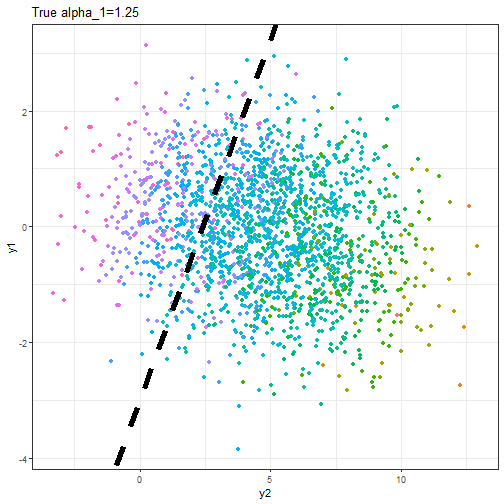
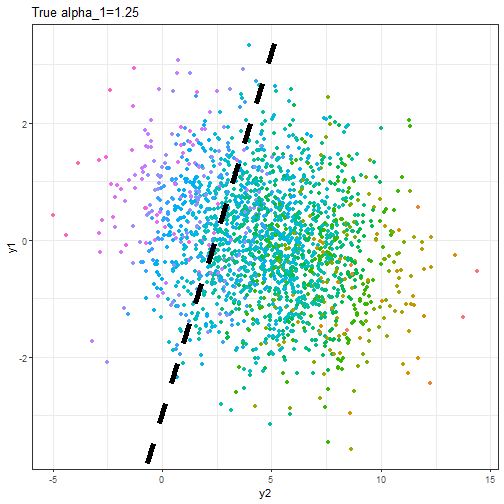
Post

diff --git a/lec/04-Instrumental-Variables/04-Instrumental-Variables.html b/lec/04-Instrumental-Variables/04-Instrumental-Variables.html
@@ -1540,7 +1540,7 @@ class: MSU
 # Simultaneity
 
 ### First stage
-`$$y_2 = \pi_{21} z_1 + \pi_{22} + v_2$$`
+`$$y_2 = \pi_{21} z_1 + \pi_{22}z_2+ v_2$$`
 
 ```
 ## 
@@ -1548,20 +1548,20 @@ class: MSU
 ## lm(formula = y2 ~ z1 + z2, data = df1)
 ## 
 ## Residuals:
-##    Min     1Q Median     3Q    Max 
-## -6.327 -1.461  0.036  1.411  7.688 
+##     Min      1Q  Median      3Q     Max 
+## -7.6716 -1.4648 -0.0406  1.4813  7.6990 
 ## 
 ## Coefficients:
 ##             Estimate Std. Error t value Pr(&gt;|t|)    
-## (Intercept) -0.12926    0.20305  -0.637 0.524456    
-## z1           2.13284    0.05970  35.724  &lt; 2e-16 ***
-## z2           0.15607    0.04342   3.595 0.000333 ***
+## (Intercept)  0.15937    0.20339   0.784   0.4334    
+## z1           2.10246    0.06017  34.941   &lt;2e-16 ***
+## z2           0.10592    0.04483   2.363   0.0182 *  
 ## ---
 ## Signif. codes:  0 '***' 0.001 '**' 0.01 '*' 0.05 '.' 0.1 ' ' 1
 ## 
-## Residual standard error: 2.164 on 1997 degrees of freedom
-## Multiple R-squared:  0.3912,	Adjusted R-squared:  0.3905 
-## F-statistic: 641.5 on 2 and 1997 DF,  p-value: &lt; 2.2e-16
+## Residual standard error: 2.201 on 1997 degrees of freedom
+## Multiple R-squared:  0.381,	Adjusted R-squared:  0.3803 
+## F-statistic: 614.5 on 2 and 1997 DF,  p-value: &lt; 2.2e-16
 ```
 ---
 class: MSU 
@@ -1576,20 +1576,20 @@ class: MSU
 ## lm(formula = y1 ~ y2hat + z1, data = df1)
 ## 
 ## Residuals:
-##      Min       1Q   Median       3Q      Max 
-## -3.13942 -0.67324  0.00917  0.68954  2.97891 
+##     Min      1Q  Median      3Q     Max 
+## -3.2826 -0.6026 -0.0129  0.6212  3.0643 
 ## 
 ## Coefficients:
-##              Estimate Std. Error t value Pr(&gt;|t|)    
-## (Intercept)  0.009626   0.078778   0.122    0.903    
-## y2hat        1.392403   0.123880  11.240   &lt;2e-16 ***
-## z1          -3.293019   0.264816 -12.435   &lt;2e-16 ***
+##             Estimate Std. Error t value Pr(&gt;|t|)    
+## (Intercept)  -0.3714     0.1107  -3.354 0.000811 ***
+## y2hat         1.9901     0.1811  10.991  &lt; 2e-16 ***
+## z1           -4.5455     0.3819 -11.902  &lt; 2e-16 ***
 ## ---
 ## Signif. codes:  0 '***' 0.001 '**' 0.01 '*' 0.05 '.' 0.1 ' ' 1
 ## 
-## Residual standard error: 0.9635 on 1997 degrees of freedom
-## Multiple R-squared:  0.1237,	Adjusted R-squared:  0.1228 
-## F-statistic:   141 on 2 and 1997 DF,  p-value: &lt; 2.2e-16
+## Residual standard error: 0.9415 on 1997 degrees of freedom
+## Multiple R-squared:  0.1358,	Adjusted R-squared:  0.1349 
+## F-statistic: 156.9 on 2 and 1997 DF,  p-value: &lt; 2.2e-16
 ```
 
 
@@ -1598,7 +1598,7 @@ class: MSU
 # Simultaneity
 
 ### The second-stage coefficient
-We get a pretty accurate estimate for `\(\alpha_1=1.39\)` from the second-stage having used `\(z_2\)` to instrument for `\(y_2\)`.
+We get a pretty accurate estimate for `\(\alpha_1=1.99\)` from the second-stage having used `\(z_2\)` to instrument for `\(y_2\)`.
 
 ---
 class: MSU
@@ -1636,9 +1636,9 @@ class: MSU
 A similar result happens if we include the fixed effect. The fixed effect instruments for itself, and is included as an exogenous variable.
 
 #### First stage
-`$$y_{it2} = \pi_{21} z_1 + \pi_{22} z_2 + \gamma^{1}_i + v_2$$`
+`$$y_{it2} = \pi_{21} z_{i1} + \pi_{22} z_{i2} + \gamma^{1}_i + v_{i2}$$`
 #### Second stage
-`$$y_{it1} = \alpha_1 \hat{y}_{it2} + \beta_1 z_1 + \gamma^{2}_i + u_1$$`
+`$$y_{it1} = \alpha_1 \hat{y}_{it2} + \beta_1 z_{i1} + \gamma^{2}_i + u_{i1}$$`
 
 `\(\gamma^1_i\)` is the fixed effect for each `\(i\)` in the first stage. 
 
